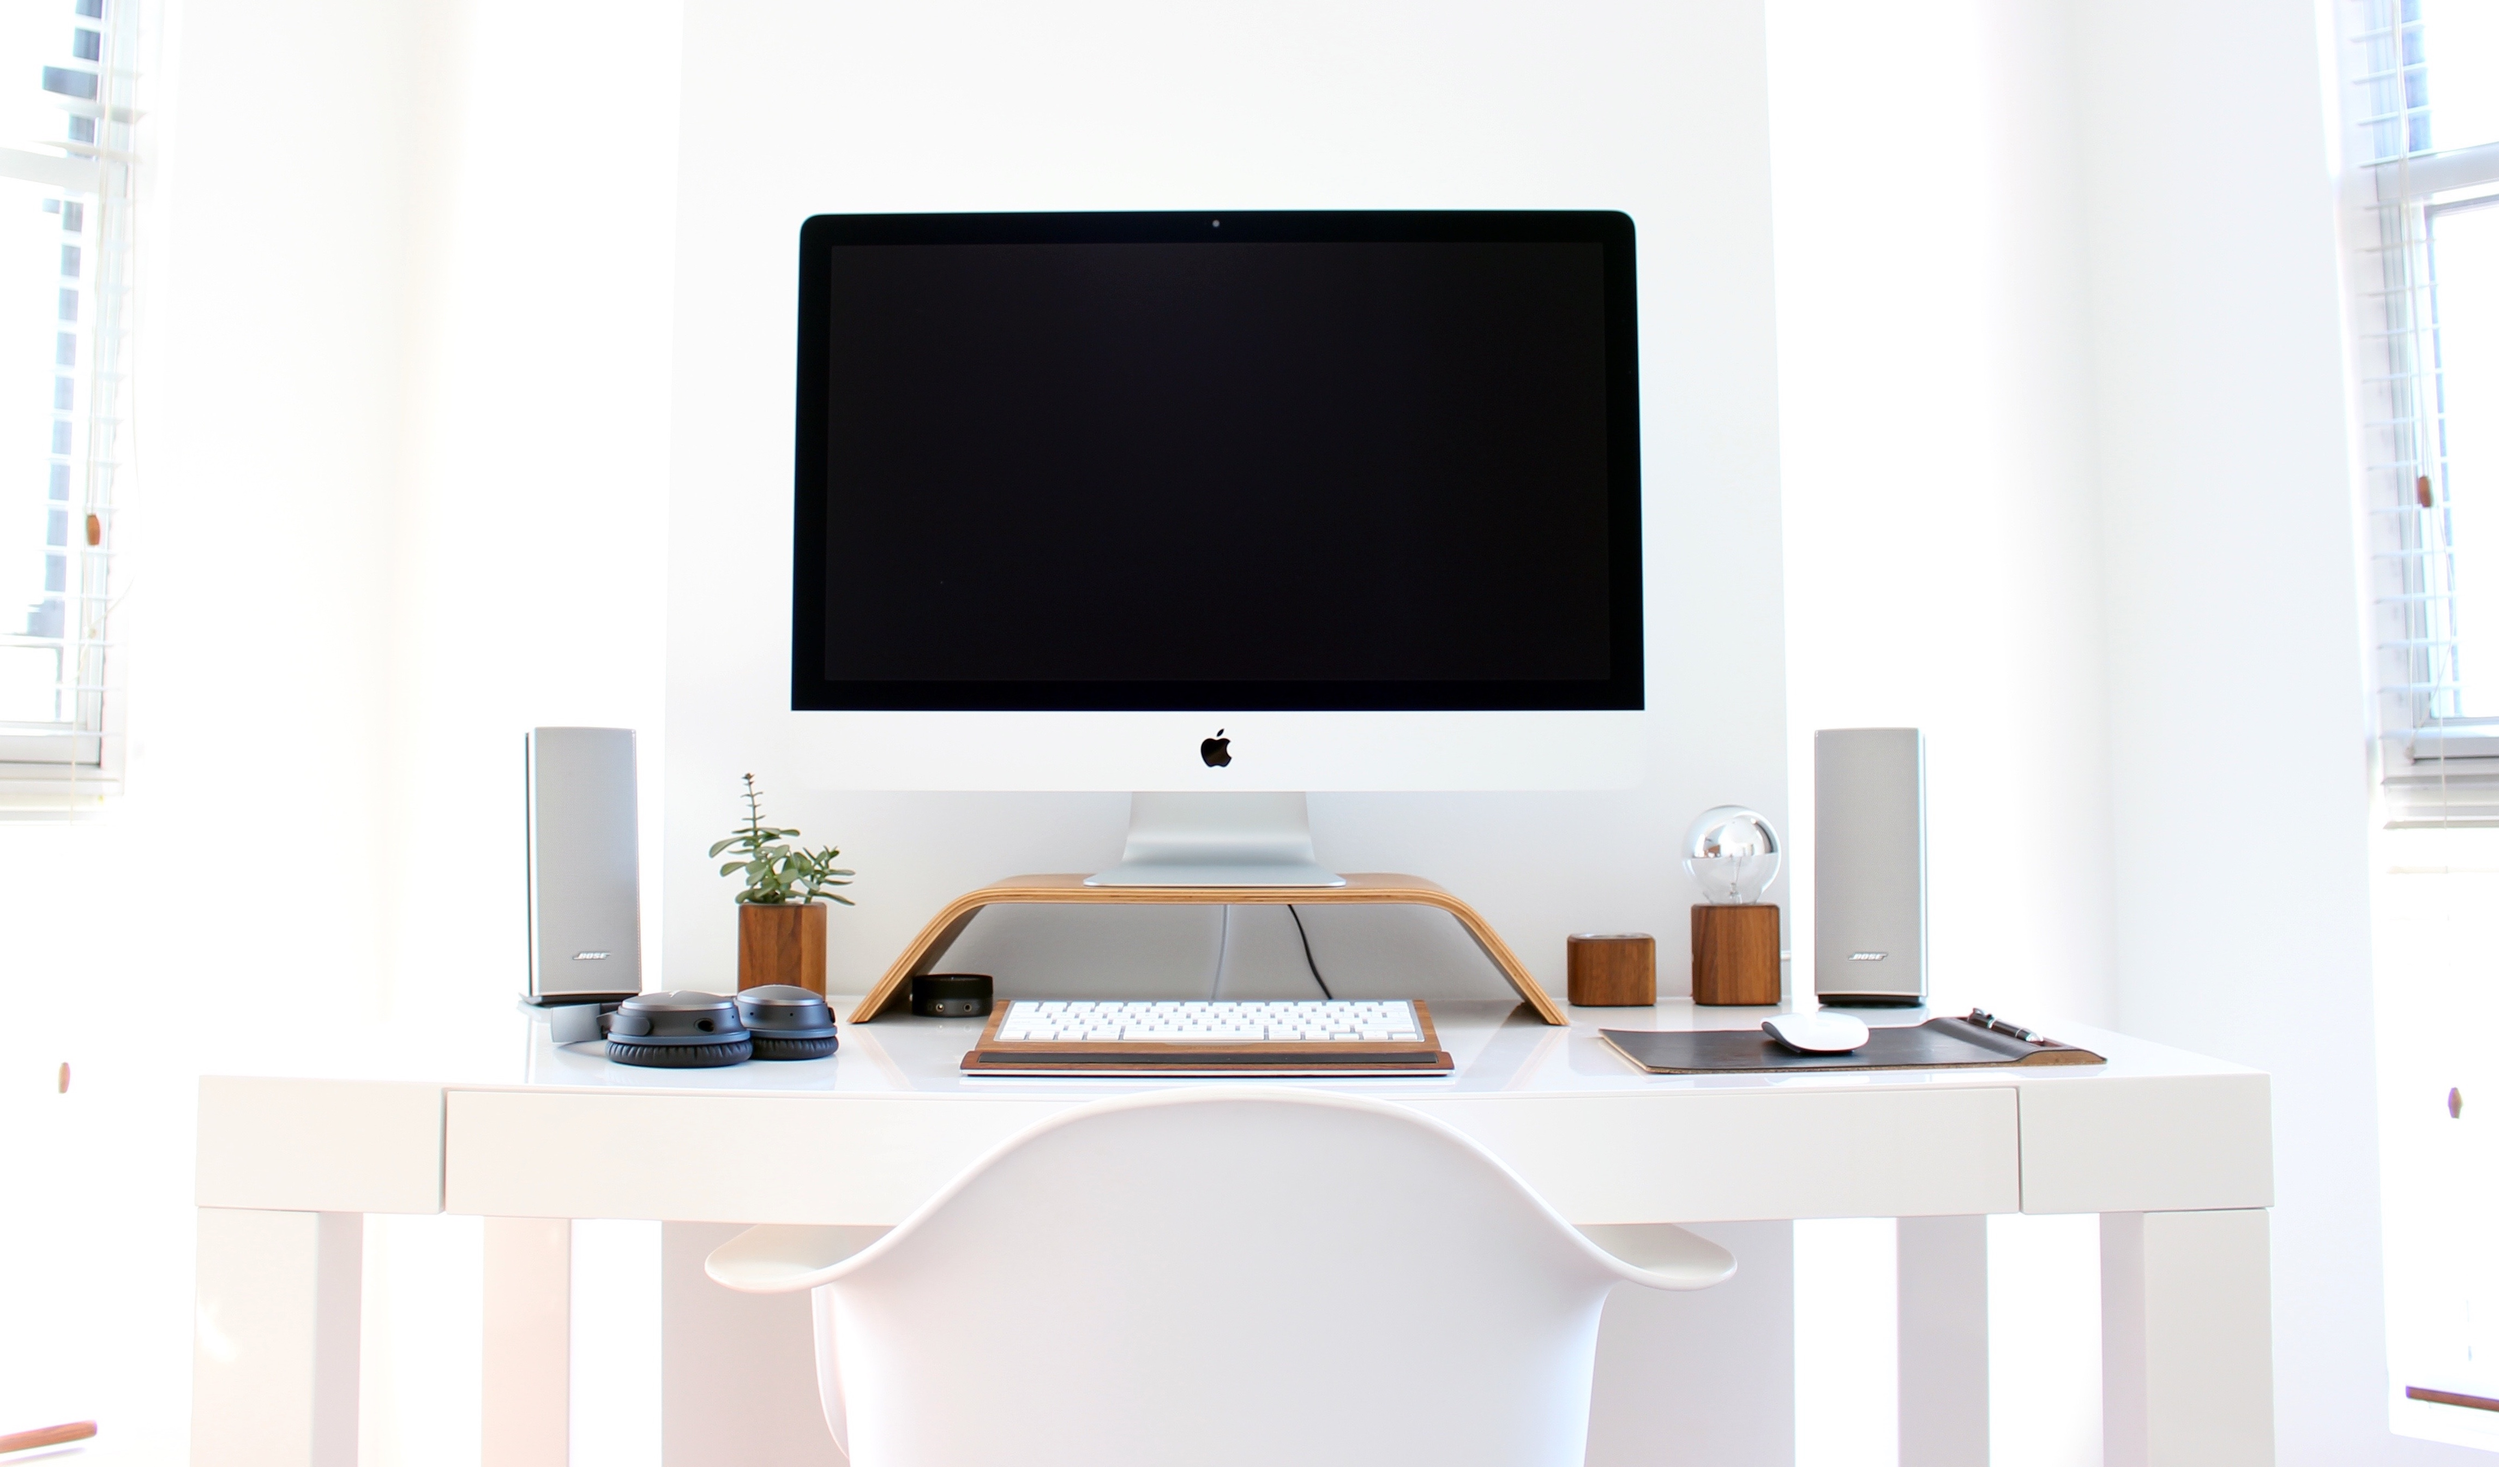
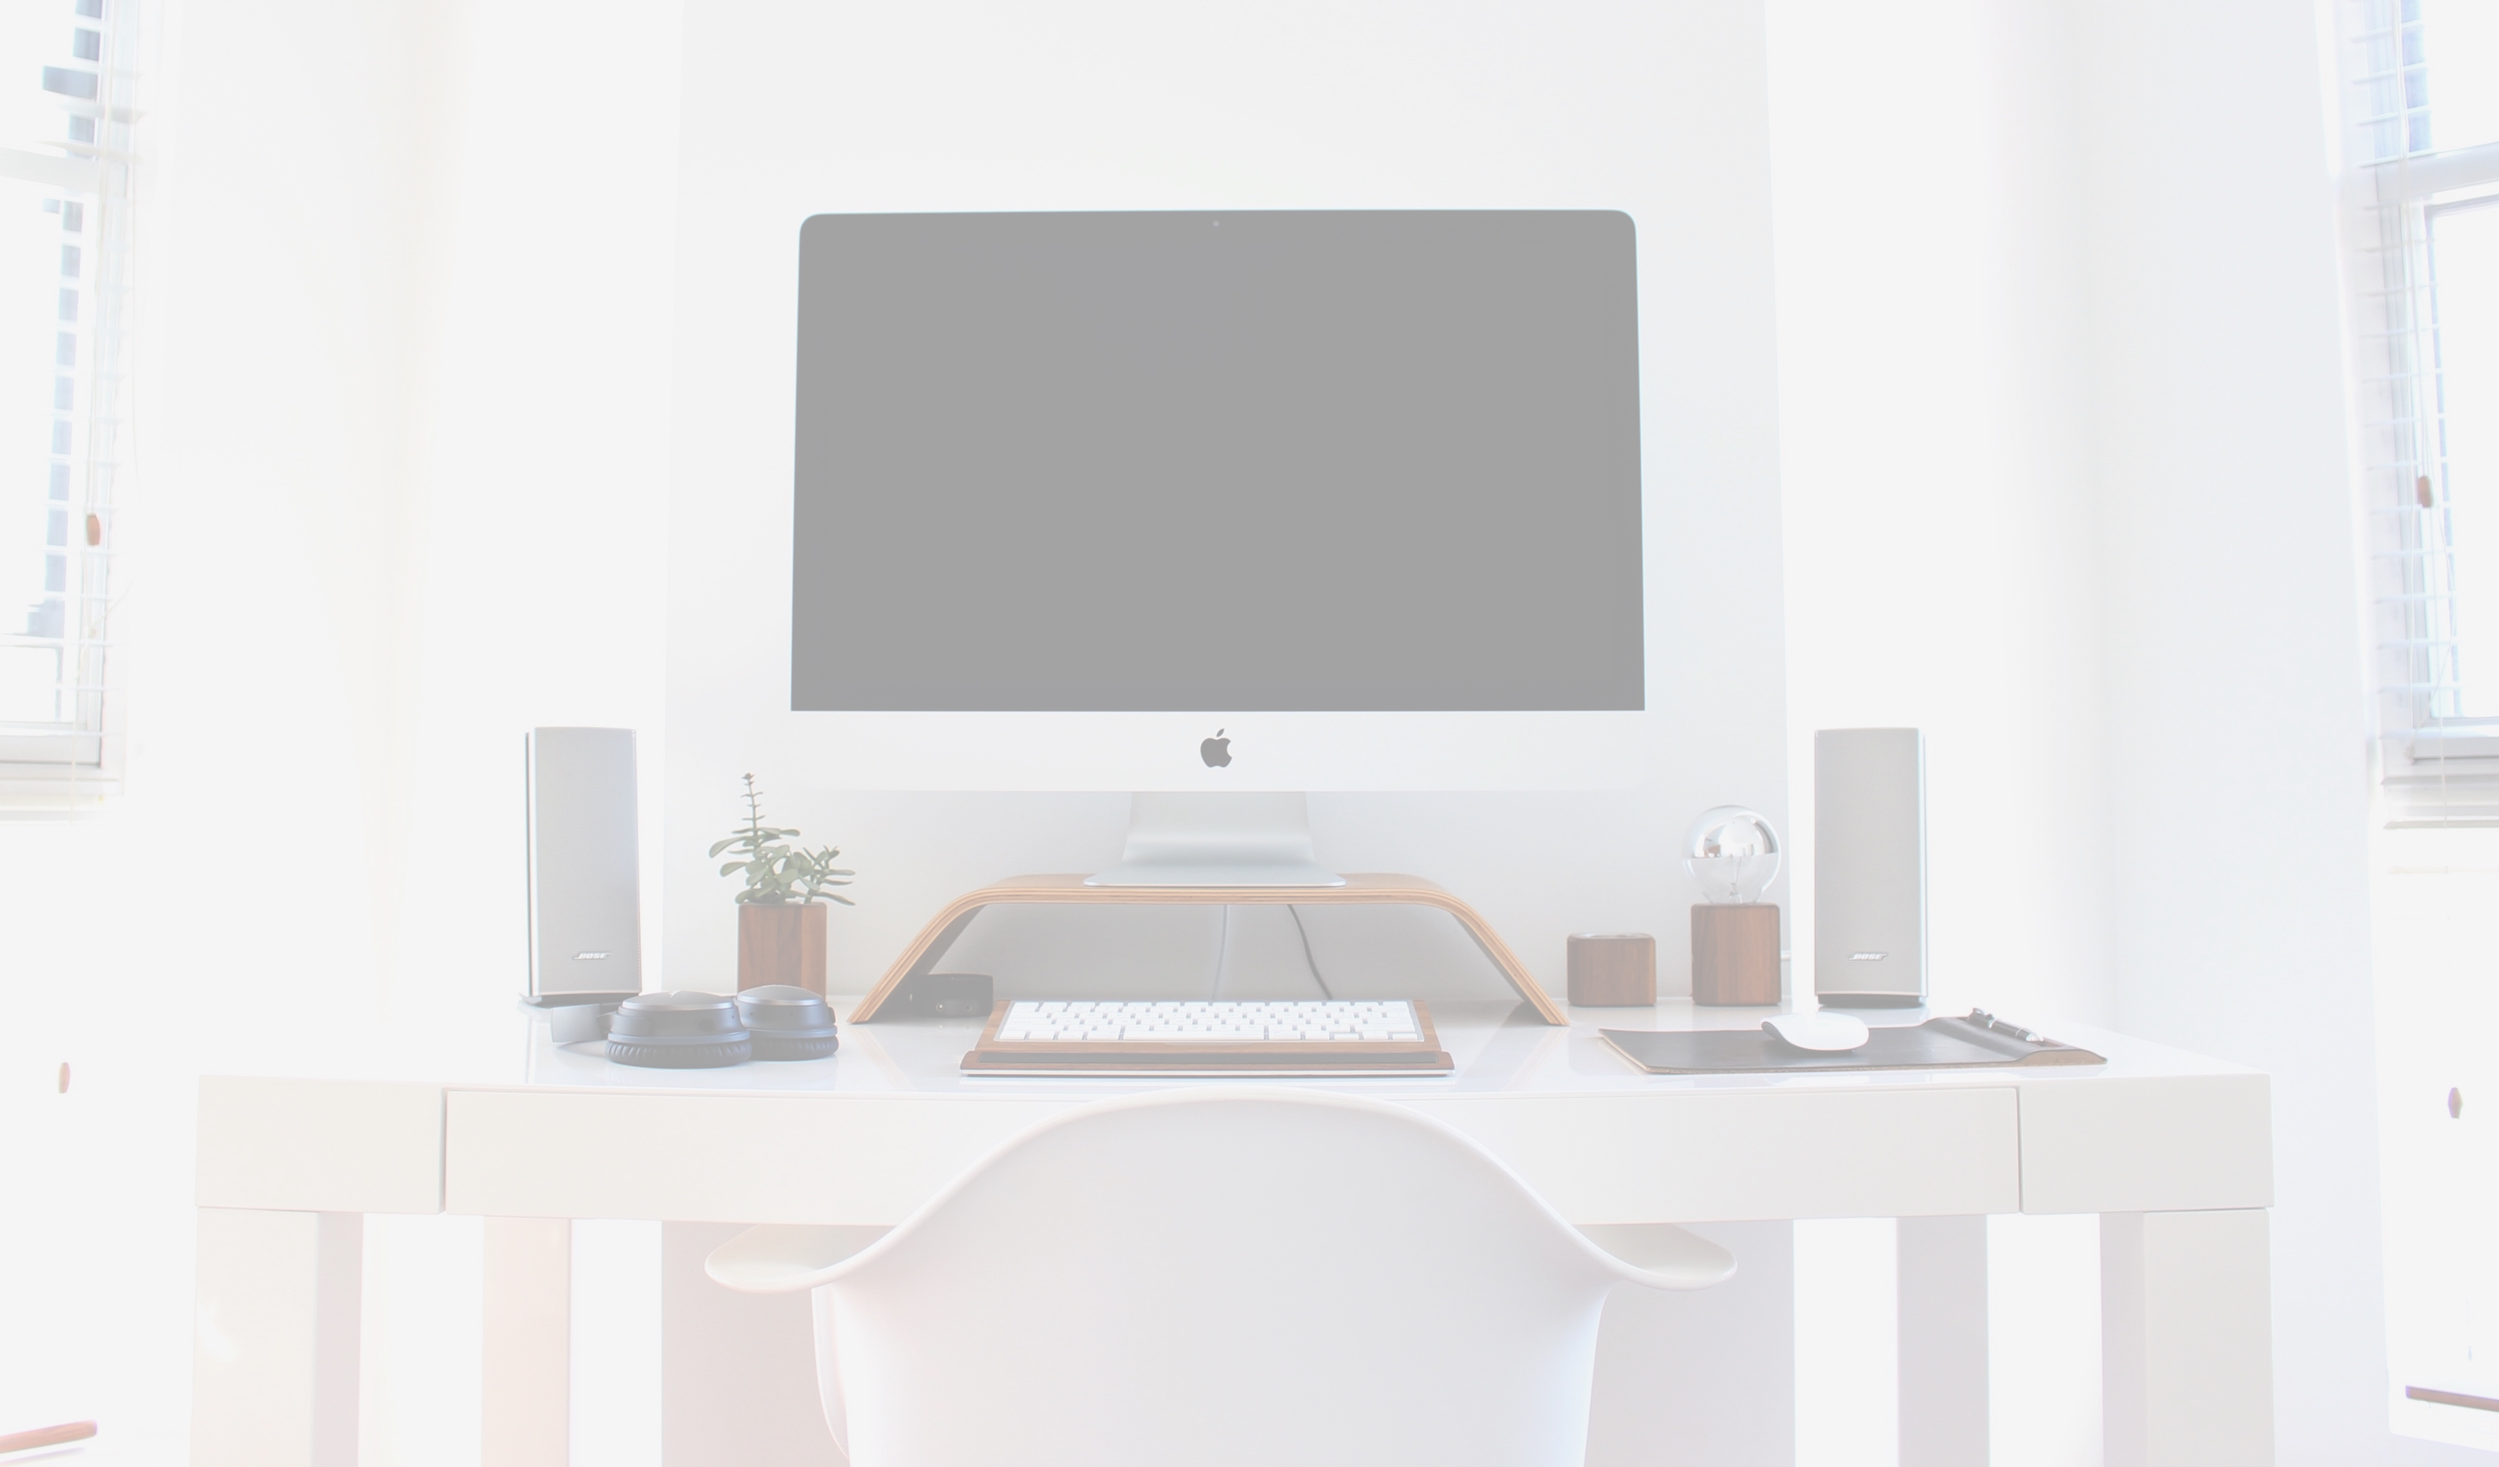
making progress on landing page design

diff --git a/public/index.html b/public/index.html
@@ -16,12 +16,15 @@
 	<body ng-controller="mainControl">
 
 		
-		<header id="header">
-
-			<div>
-				<div class='col l8 m6 s6'>
-					<h3 class="black-text brand">CodingLotus<img class="lotus" src="https://d30y9cdsu7xlg0.cloudfront.net/png/108170-200.png" height="23px" width="23px">
-					</h3>
+		<header id="head">
+			
+		
+				<div>
+					<img class="landingImage" src="img/desktop.jpeg" height="90%" width="100%">
+				    <i class="medium material-icons col l1 m1 s1 left menu">reorder</i>
+					<!-- <h3 class="black-text col l3 m3 s3 right">CodingLotus<img class="lotus" src="https://d30y9cdsu7xlg0.cloudfront.net/png/108170-200.png" height="30px" width="30px">
+					<! </h3> -->
+					
 				</div>
 				<!-- <div class="col l4 m6 s6">	
 					
@@ -29,13 +32,21 @@
 					<a class="black-text" ui-sref="about">About</a>
 					<a class="black-text" ui-sref="contact">Contact</a></h5>
 				</div> -->
-			</div>
-			<img class="landingImage" src="img/desktop.jpeg" height="90%" width="100%">
+			
+			
 		</header>
 			
 		<main>
-			<div class="container">
-				<ui-view></ui-view>
+			<div class="container ">
+				<!-- <ui-view></ui-view> -->
+				<p>Donec sed odio dui. Cras justo odio, dapibus ac facilisis in, egestas eget quam. Lorem ipsum dolor sit amet, consectetur adipiscing elit. Aenean lacinia bibendum nulla sed consectetur. Cras justo odio, dapibus ac facilisis in, egestas eget quam. Cum sociis natoque penatibus et magnis dis parturient montes, nascetur ridiculus mus.
+
+				Aenean lacinia bibendum nulla sed consectetur. Fusce dapibus, tellus ac cursus commodo, tortor mauris condimentum nibh, ut fermentum massa justo sit amet risus. Sed posuere consectetur est at lobortis. Nulla vitae elit libero, a pharetra augue. Aenean eu leo quam. Pellentesque ornare sem lacinia quam venenatis vestibulum. Etiam porta sem malesuada magna mollis euismod. Nullam quis risus eget urna mollis ornare vel eu leo.
+				Donec sed odio dui. Cras justo odio, dapibus ac facilisis in, egestas eget quam. Lorem ipsum dolor sit amet, consectetur adipiscing elit. Aenean lacinia bibendum nulla sed consectetur. Cras justo odio, dapibus ac facilisis in, egestas eget quam. Cum sociis natoque penatibus et magnis dis parturient montes, nascetur ridiculus mus.
+
+				Aenean lacinia bibendum nulla sed consectetur. Fusce dapibus, tellus ac cursus commodo, tortor mauris condimentum nibh, ut fermentum massa justo sit amet risus. Sed posuere consectetur est at lobortis. Nulla vitae elit libero, a pharetra augue. Aenean eu leo quam. Pellentesque ornare sem lacinia quam venenatis vestibulum. Etiam porta sem malesuada magna mollis euismod. Nullam quis risus eget urna mollis ornare vel eu leo.Donec sed odio dui. Cras justo odio, dapibus ac facilisis in, egestas eget quam. Lorem ipsum dolor sit amet, consectetur adipiscing elit. Aenean lacinia bibendum nulla sed consectetur. Cras justo odio, dapibus ac facilisis in, egestas eget quam. Cum sociis natoque penatibus et magnis dis parturient montes, nascetur ridiculus mus.
+
+				Aenean lacinia bibendum nulla sed consectetur. Fusce dapibus, tellus ac cursus commodo, tortor mauris condimentum nibh, ut fermentum massa justo sit amet risus. Sed posuere consectetur est at lobortis. Nulla vitae elit libero, a pharetra augue. Aenean eu leo quam. Pellentesque ornare sem lacinia quam venenatis vestibulum. Etiam porta sem malesuada magna mollis euismod. Nullam quis risus eget urna mollis ornare vel eu leo.</p>
 			</div>
 		</main>	
 
@@ -43,7 +54,7 @@
           <div class="container">
             <div class="row">
               <div class="col l6 m6 s10 offset-s1">
-                <h5 class="black-text">CodingLotus<img class="lotus" src="https://d30y9cdsu7xlg0.cloudfront.net/png/108170-200.png" height="23px" width="23px"></h5>
+                <h5 class="black-text">CodingLotus<img class="lotusBottom" src="https://d30y9cdsu7xlg0.cloudfront.net/png/108170-200.png" height="23px" width="23px"></h5>
                 <p class="black-text text-lighten-4">Let's build something beautiful.</p>
               </div>
               <div class="col l4 offset-l2 m5 offset-m1 hide-on-small-only">
@@ -66,7 +77,12 @@
 
 
 
-      
+      <script>
+      	// Show sideNav
+  $('.button-collapse').sideNav('show');
+  // Hide sideNav
+  $('.button-collapse').sideNav('hide');
+      </script>
 
 		<script src="https://code.jquery.com/jquery-2.2.0.js"></script>
 		<script src="https://cdnjs.cloudflare.com/ajax/libs/materialize/0.97.6/js/materialize.min.js"></script> 

diff --git a/public/main.css b/public/main.css
@@ -6,7 +6,7 @@ body {
 main {
     flex: 1 0 auto;
 }
-h5, h3{
+h5, h3, h4{
 	font-family: 'Lobster'	
 } /*in use brand name next to logo*/
 a{
@@ -15,34 +15,41 @@ a{
 p{
 	font-family: 'Avenir';
 }
-.brand{
-	/*padding-top: 30%;*/
-}
-.reorder{
-	font-size: 60px;
-}
 .landingImage{
-	opacity: .3;
-	margin-top: -10%;
+	position: relative;
+}
+.menu{
+	position: fixed;
+	top: 0;
+	margin-left: 25px;
+	margin-top: 20px;
+}
+.head{
+	display: inline-flex;
 }
 
-#header{
+/*#header{
 	top: 0px;
 	left: 0px;
 	width: 100%;
 	margin: auto;
 	height: auto;
 	padding: 1%;
-} /*in use header*/
+}*/ /*in use header*/
 #footer{
    width:100%;
    font-family: 'Avenir'
 } /*in user footer*/
 .lotus{
-	margin-top: .2%;
+	margin-top: .7%;
 	margin-left: .5%;
 	position: absolute;
 } /*in use icon/logo*/
+.lotusBottom{
+	margin-top: .2%;
+	margin-left: .5%;
+	position: absolute;
+}
 .about{
 	margin-top: 5%;
 }
